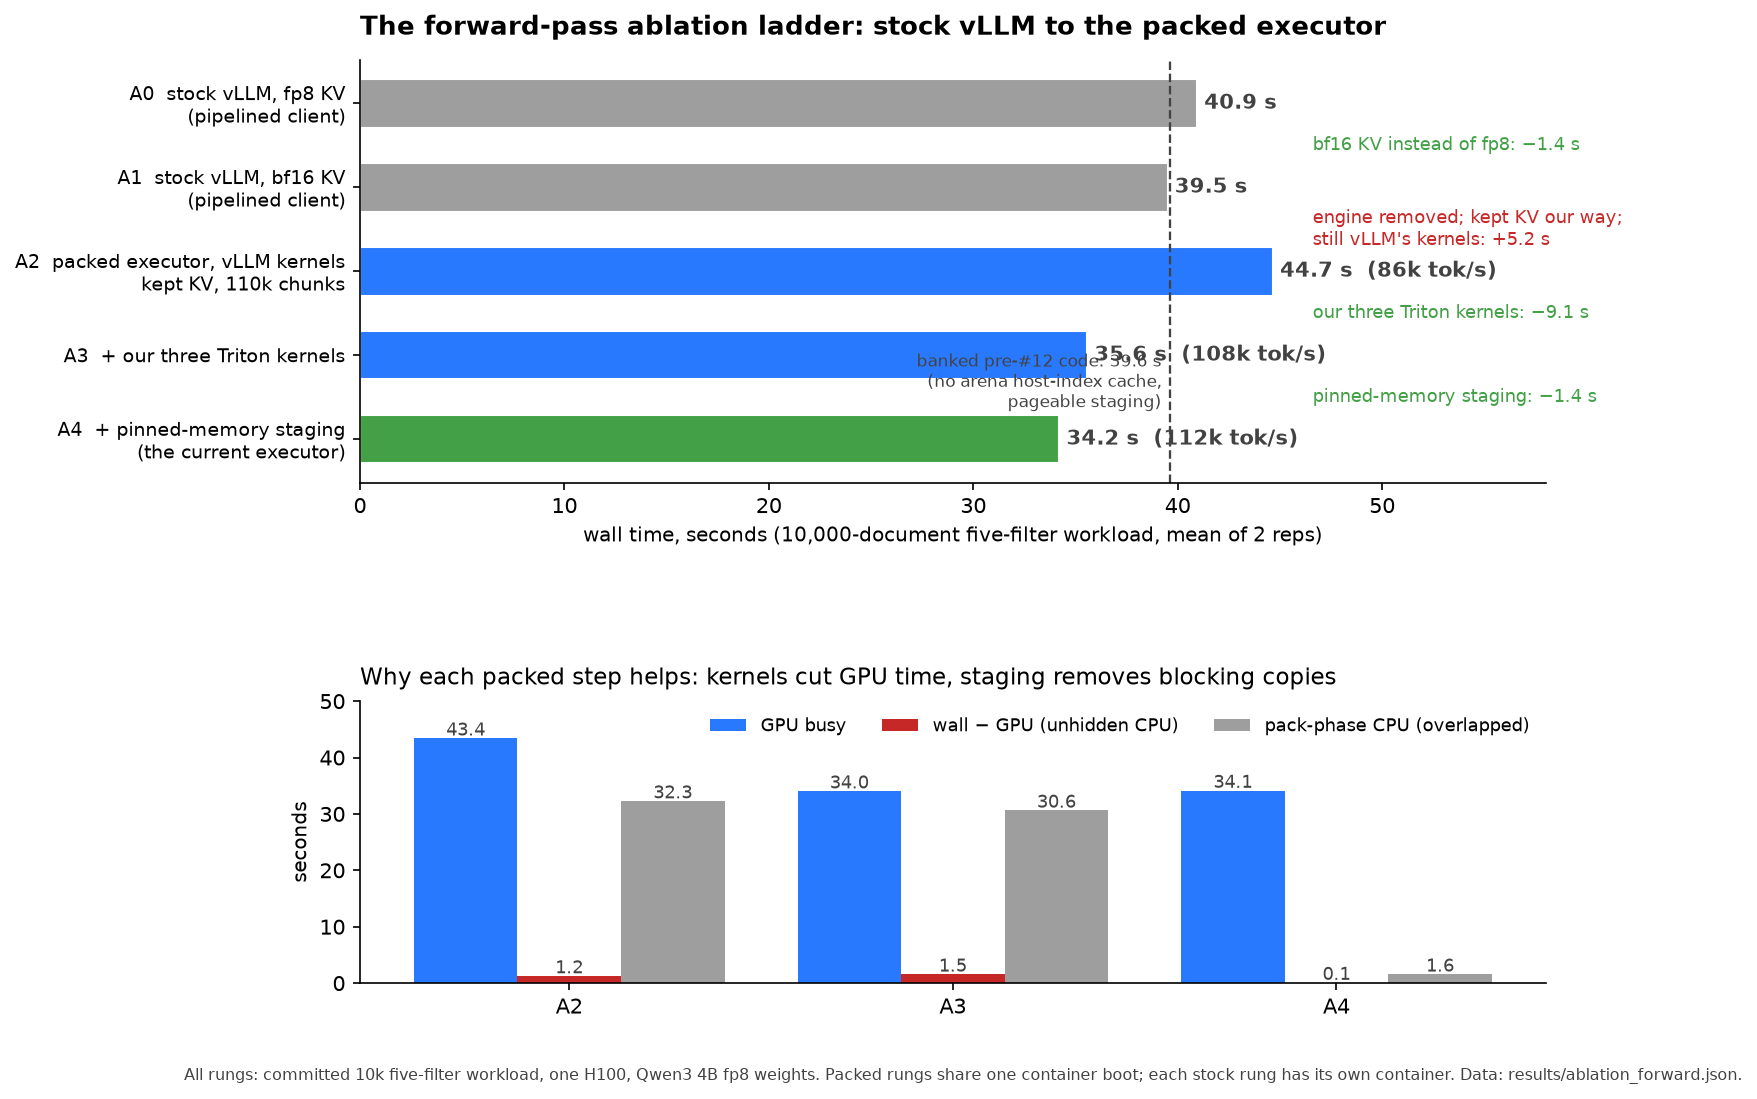
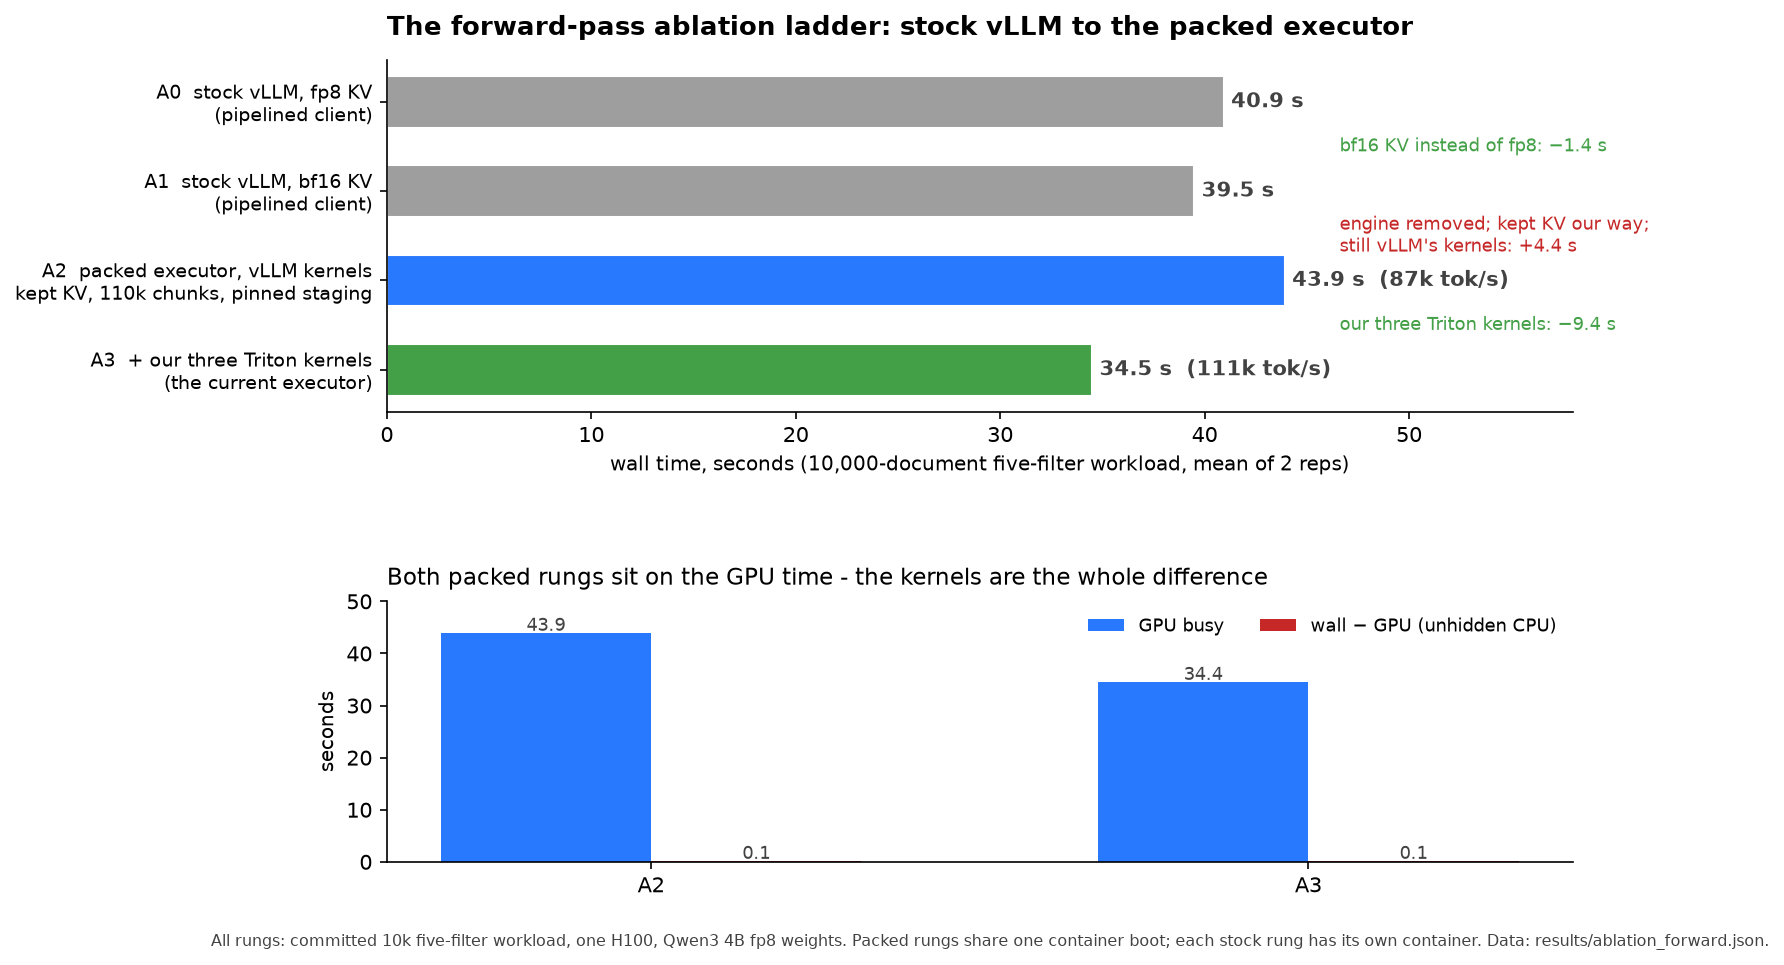
Bank the four-rung ladder: staging in the packed base, kernels last
A2 (vLLM kernels, pinned staging) measured 43.9 s against the ~43.5
prediction; A3 (our kernels) 34.5 s, reproducing the banked counts
exactly (1,807 survivors, 6,294 wrong). The kernel step is worth 9.4
s at the 110k-chunk geometry; engine removal alone is +4.4 s against
stock bf16. Report and figure regenerated for the four-rung ladder.

diff --git a/quail/reports/make_ablation_plots.py b/quail/reports/make_ablation_plots.py
@@ -1,9 +1,7 @@
-"""The forward-pass ablation ladder figure (A0-A4).
+"""The forward-pass ablation ladder figure (A0-A3).
 
-Reads results/ablation_forward.json (banked 2026-08-19) plus the
-banked pre-issue-#12 filter runs for the arena host-index reference
-line. Writes reports/plots/ablation_ladder.png. Run from the quail/
-directory:
+Reads results/ablation_forward.json (banked 2026-08-19) and writes
+reports/plots/ablation_ladder.png. Run from the quail/ directory:
 
     uv run --with matplotlib python reports/make_ablation_plots.py
 """
@@ -40,24 +38,20 @@ def mean(rows, key):
     return sum(r[key] for r in rows) / len(rows)
 
 
-# rung order top -> bottom: A0, A1, A2, A3, A4
+# rung order top -> bottom: A0, A1, A2, A3
 rungs = [
     ("A0", "stock vLLM, fp8 KV\n(pipelined client)", stock["A0"]["runs"], GRAY),
     ("A1", "stock vLLM, bf16 KV\n(pipelined client)", stock["A1"]["runs"], GRAY),
-    ("A2", "packed executor, vLLM kernels\nkept KV, 110k chunks", packed["runs"]["A2"], ACCENT),
-    ("A3", "+ our three Triton kernels", packed["runs"]["A3"], ACCENT),
-    ("A4", "+ pinned-memory staging\n(the current executor)", packed["runs"]["A4"], GREEN),
+    ("A2", "packed executor, vLLM kernels\nkept KV, 110k chunks, pinned staging",
+     packed["runs"]["A2"], ACCENT),
+    ("A3", "+ our three Triton kernels\n(the current executor)",
+     packed["runs"]["A3"], GREEN),
 ]
 walls = [mean(r, "wall") for _, _, r, _ in rungs]
 
-# the banked pre-#12 code point: our kernels, old arena (no host-index
-# cache), pageable staging - the "neither #12 change" reference
-pre12 = mean(load("m1_filter_final1.json")["runs"]
-             + load("m1_filter_final2.json")["runs"], "wall")
-
 fig, (ax, bx) = plt.subplots(
-    2, 1, figsize=(10.2, 7.6), dpi=150,
-    gridspec_kw={"height_ratios": [1.5, 1.0], "hspace": 0.62,
+    2, 1, figsize=(10.2, 6.6), dpi=150,
+    gridspec_kw={"height_ratios": [1.35, 1.0], "hspace": 0.62,
                  "top": 0.90, "bottom": 0.09})
 
 # ---------------- panel A: the ladder --------------------------------
@@ -72,17 +66,12 @@ for i, (w, (_, _, rows, _)) in enumerate(zip(walls, rungs)):
         note += f"  ({tok_s / 1000:.0f}k tok/s)"
     ax.text(w + 0.35, i, note, va="center", fontsize=10,
             color=DARK, fontweight="bold")
-ax.axvline(pre12, color=DARK, ls="--", lw=1.1)
-ax.text(pre12 - 0.4, 3.62, f"banked pre-#12 code: {pre12:.1f} s\n"
-        "(no arena host-index cache,\npageable staging)",
-        fontsize=8, color=DARK, ha="right")
 
 # per-step deltas, between adjacent bars
 steps = [
     (0, "bf16 KV instead of fp8"),
     (1, "engine removed; kept KV our way;\nstill vLLM's kernels"),
     (2, "our three Triton kernels"),
-    (3, "pinned-memory staging"),
 ]
 for i, text in steps:
     d = walls[i + 1] - walls[i]
@@ -102,25 +91,21 @@ ax.set_title("The forward-pass ablation ladder: stock vLLM to the packed "
              "executor", fontsize=12.5, loc="left", fontweight="bold",
              pad=12)
 
-# ---------------- panel B: the mechanics, packed rungs ----------------
-# GPU-busy time vs the wall-minus-GPU gap, with the pack phase's CPU
-# seconds alongside: the kernels cut GPU time; pinned staging removes
-# the blocking copies from packing and closes the gap.
-names = ["A2", "A3", "A4"]
+# ---------------- panel B: the packed pair is GPU-bound ---------------
+# GPU-busy time against the wall-minus-GPU gap for A2 and A3: with
+# pinned staging in the base configuration, both rungs sit on the GPU
+# time, so the kernels are the whole difference between them.
+names = ["A2", "A3"]
 gpu = [mean(packed["runs"][n], "gpu_s") for n in names]
 gap = [mean(packed["runs"][n], "wall") - g for n, g in zip(names, gpu)]
-pack_cpu = [sum(r["cpu_phase_s"]["pack"] for r in packed["runs"][n])
-            / len(packed["runs"][n]) for n in names]
 
 x = list(range(len(names)))
-w = 0.27
-b1 = bx.bar([i - w for i in x], gpu, width=w, color=ACCENT,
+w = 0.32
+b1 = bx.bar([i - w / 2 for i in x], gpu, width=w, color=ACCENT,
             label="GPU busy")
-b2 = bx.bar(x, gap, width=w, color="#C62828",
+b2 = bx.bar([i + w / 2 for i in x], gap, width=w, color="#C62828",
             label="wall − GPU (unhidden CPU)")
-b3 = bx.bar([i + w for i in x], pack_cpu, width=w, color=GRAY,
-            label="pack-phase CPU (overlapped)")
-for bars in (b1, b2, b3):
+for bars in (b1, b2):
     for b in bars:
         bx.text(b.get_x() + b.get_width() / 2,
                 b.get_height() + 0.5, f"{b.get_height():.1f}",
@@ -129,10 +114,10 @@ bx.set_xticks(x)
 bx.set_xticklabels(names, fontsize=10)
 bx.set_ylabel("seconds", fontsize=9.5)
 bx.set_ylim(0, 50)
-bx.legend(fontsize=8.6, ncol=3, frameon=False, loc="upper right")
+bx.legend(fontsize=8.6, ncol=2, frameon=False, loc="upper right")
 bx.spines[["top", "right"]].set_visible(False)
-bx.set_title("Why each packed step helps: kernels cut GPU time, staging "
-             "removes blocking copies", fontsize=11, loc="left", pad=8)
+bx.set_title("Both packed rungs sit on the GPU time - the kernels are "
+             "the whole difference", fontsize=11, loc="left", pad=8)
 
 fig.text(0.01, 0.005,
          "All rungs: committed 10k five-filter workload, one H100, "

diff --git a/quail/reports/2026-08-19-forward-pass-ablation.md b/quail/reports/2026-08-19-forward-pass-ablation.md
@@ -15,16 +15,17 @@ Each rung adds exactly one change to the previous one.
 |---|---|---|
 | A0 | stock vLLM, fp8 KV, pipelined per-(document, stage) client, prefix caching on | the committed production setting |
 | A1 | stock vLLM, bf16 KV, same client | the fp8 KV conversion tax |
-| A2 | packed executor, vLLM's own between-GEMM kernels, kept KV (arena, paged cross-attention, LSE merge), 110,376-token chunks | engine removal and the kept-KV machinery, landing together |
-| A3 | A2 + our three Triton kernels (norm+add+quantize, silu+mul+quantize, qk-norm+rope) | the custom kernels |
-| A4 | A3 + pinned-memory staging for chunk packing | issue #9/#12 staging; the current executor |
+| A2 | packed executor, vLLM's own between-GEMM kernels: kept KV (arena, paged cross-attention, LSE merge), 110,376-token chunks, pinned-memory staging | engine removal and the kept-KV machinery, landing together |
+| A3 | A2 + our three Triton kernels (norm+add+quantize, silu+mul+quantize, qk-norm+rope) | the custom kernels; this is the current executor |
 
-A2 runs the current arena code, including the issue-#12 host-index
-cache; no rung in this study turns that cache off. Its contribution
-is attributed from the banked pre-#12 runs (see below).
+Pinned staging is part of the packed base configuration, not a rung.
+Issue #12 already banked its worth: the pre-#12 code ran 39.4-39.9 s,
+the code after it 34.6 s, and the five-rung version of this study
+split that into ~4 s for the arena host-index cache and ~1.4 s for
+the staging copies.
 
 Container discipline: the packed rungs share one boot, so their
-differences carry no container drift. Each stock rung has its own
+difference carries no container drift. Each stock rung has its own
 container - the v1 engine core process holds the GPU until exit, so
 two engine boots in one container fail (measured: 1.34 GiB free at
 the second boot). Stock-to-packed comparisons carry the +/-3%
@@ -38,63 +39,56 @@ Walls are means of 2 reps; the reps agreed within 0.5 s everywhere.
 |---|---|---|---|---|
 | A0 | 40.9 s | ~95.8k | 42.8-43.2 s (exploration fp8 band) | slightly better than the band |
 | A1 | 39.5 s | ~99.4k | 38.7-39.0 s (banked baseline_filter4) | within 1.5% |
-| A2 | 44.7 s | 86.0k | ~41 s (ladder arithmetic) | missed by 9% - see below |
-| A3 | 35.6 s | 107.8k | 39.4-39.9 s (banked pre-#12) | beat by ~4 s - see below |
-| A4 | 34.2 s | 112.1k | 34.6 s (banked m1_filter) | matches |
+| A2 | 43.9 s | 87.4k | ~43.5 s (pageable-staging version measured 44.7 s wall against 43.4 s GPU-busy) | within 1% |
+| A3 | 34.5 s | 111.1k | 34.6 s (banked m1_filter) | matches |
 
-Per-step deltas: A0 to A1 is -1.4 s (bf16 KV); A1 to A2 is **+5.2 s**
-(engine removed, stock kernels); A2 to A3 is -9.1 s (our kernels);
-A3 to A4 is -1.4 s (pinned staging).
+Per-step deltas: A0 to A1 is -1.4 s (bf16 KV); A1 to A2 is **+4.4 s**
+(engine removed, kept KV our way, still vLLM's kernels); A2 to A3 is
+-9.4 s (our three kernels).
 
 ## What the numbers mean
 
-- **Removing the engine alone loses.** A2 (44.7 s) is slower than
+- **Removing the engine alone loses.** A2 (43.9 s) is slower than
   stock bf16 (39.5 s). With vLLM's own kernels between the GEMMs, the
-  packed loop plus kept-KV machinery does not beat the engine. The
-  forward-pass win comes from the custom kernels and the staging, not
-  from deleting machinery. This is the exploration ladder's headline
-  ("almost none of that comes from removing the engine") reproduced
-  on the chain workload with kept KV on.
-- **The three Triton kernels are worth 9.1 s here** - 2.4 us per
+  packed loop plus kept-KV machinery does not beat the engine - even
+  though A2 never re-serves a document prefix and the stock client
+  re-reads 4.7M cached tokens through attention. The forward-pass win
+  comes from the custom kernels, not from deleting machinery. This is
+  the exploration ladder's headline ("almost none of that comes from
+  removing the engine") reproduced on the chain workload with kept KV
+  on.
+- **The three Triton kernels are worth 9.4 s here** - 2.5 us per
   token at 110,376-token chunks, against the 1.71 us/token the ladder
   measured at 25,305-token chunks. The kernel worth grows with chunk
-  size, which is why A2's prediction (built from the small-chunk
-  number) missed by 9%. GPU-busy time confirms it: 43.4 s in A2 to
-  34.0 s in A3.
-- **Issue #12's gain decomposes.** The banked pre-#12 code (our
-  kernels, old arena, pageable staging) ran 39.4-39.9 s. A3 keeps the
-  new arena host-index cache but reverts the staging: 35.6 s. So the
-  host-index cache is worth ~4 s and pinned staging the last ~1.4 s
-  (A3 to A4). Caveat: the pre-#12 point came from a different
-  container, so the ~4 s carries the +/-3% band (~1.2 s); it is still
-  clearly the larger of the two #12 changes.
+  size. GPU-busy time confirms it: 43.9 s in A2 to 34.4 s in A3, and
+  both rungs sit on their GPU time (the wall-minus-GPU gap is under
+  0.1 s), so the kernels are the whole difference.
 - **The fp8 KV tax on the stock side is 1.4 s** (A0 to A1, ~3.5%),
   consistent with the ladder's 5.9% rate measurement.
-- **End to end: 39.5 to 34.2 s = 1.16x** over the strongest stock
-  client (bf16, pipelined); 41.0 to 34.2 = 1.20x over fp8 stock.
+- **End to end: 39.5 to 34.5 s = 1.15x** over the strongest stock
+  client (bf16, pipelined); 40.9 to 34.5 = 1.19x over fp8 stock.
 
 ## Gates and consistency checks
 
-- A3 and A4 answers are identical (0 disagreements), as required:
-  staging changes copy mechanics, not values.
+- A3 reproduces the banked current-executor counts exactly: 1,807
+  survivors, 6,294 wrong of 23,113 answered (results/m1_filter.json).
 - A2 vs A3: 2,273 of 23,113 answers flipped (9.8%). Different quant
   kernels flip thin YES/NO margins; the exploration measured 1,768
   flips per 10,000 answers from one silu-kernel swap, so this is the
-  expected band. A2 computes 4,420 more fresh tokens than A3/A4
-  because the flips change gating (1,900 vs 1,807 survivors) - table
-  readers should not read the token difference as overhead.
+  expected band. A2 computes 4,420 more fresh tokens than A3 because
+  the flips change gating (1,900 vs 1,807 survivors) - table readers
+  should not read the token difference as overhead.
 - A1 reproduces the committed bf16 chain reference exactly: 1,873
   survivors, 6,229 wrong answers. The stock baseline is calibrated.
 - Wrong-answer rates against the planted flags are in the same band
-  on every rung (6,194-6,294 of 23,113-23,453): no rung is more
-  correct than another.
+  on every rung (6,194-6,294): no rung is more correct than another.
 
 ## Data files
 
 - `results/ablation_forward.json`: the full run (config, predictions,
   per-rep walls, CPU phase timings, gates).
-- `results/m1_filter_final1.json`, `results/m1_filter_final2.json`:
-  the banked pre-#12 reference point.
-- Logs: `results/ablation_forward.log` (packed + first stock
-  attempt), `results/ablation_stock_a0.log`,
-  `results/ablation_stock_a1.log`.
+- Logs: `results/ablation_packed4.log` (A2/A3),
+  `results/ablation_stock_a0.log`, `results/ablation_stock_a1.log`.
+- The five-rung version of this study (pinned staging as its own
+  rung, A4) is superseded by this one; its data remains in git
+  history at the parent of this report's commit.
